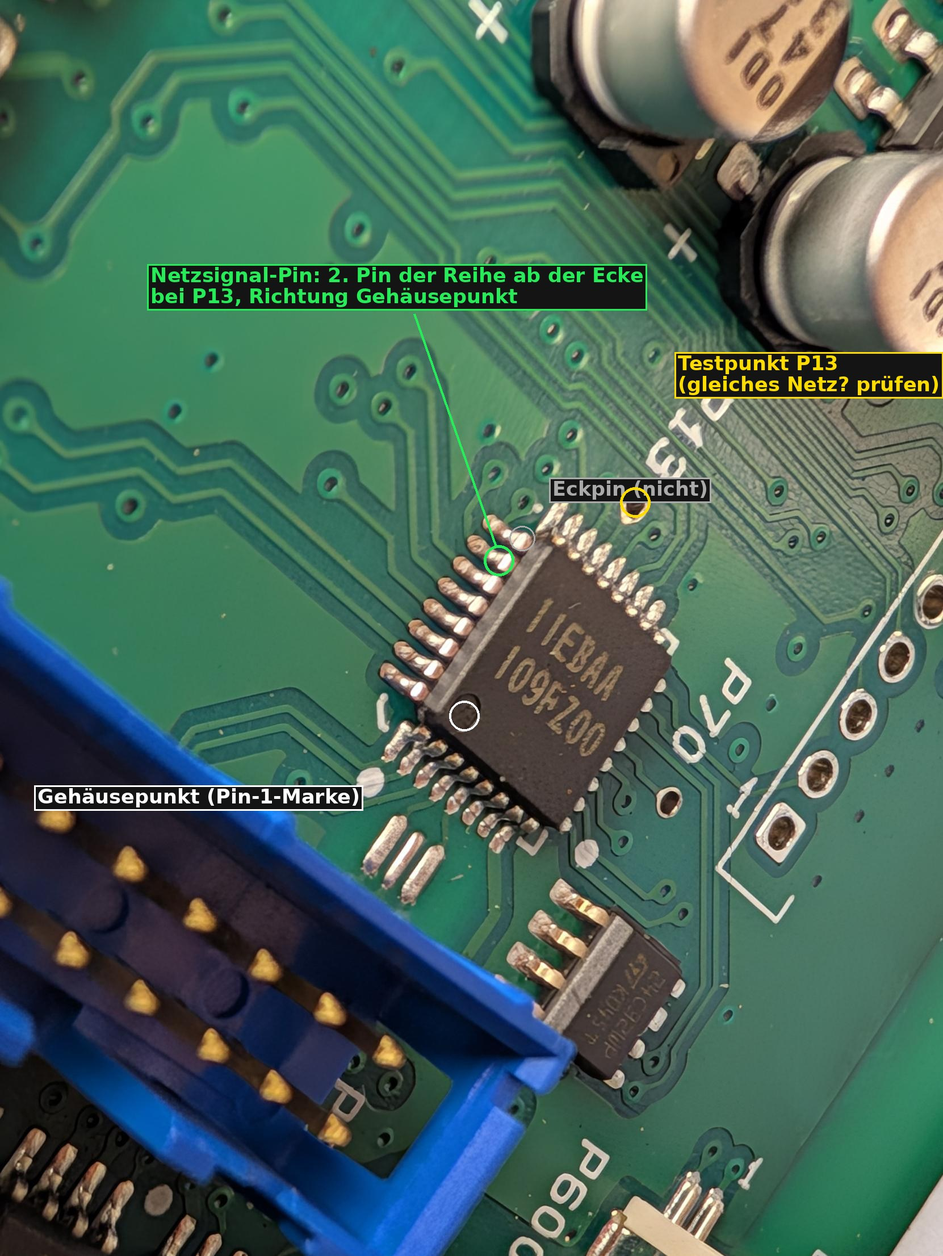
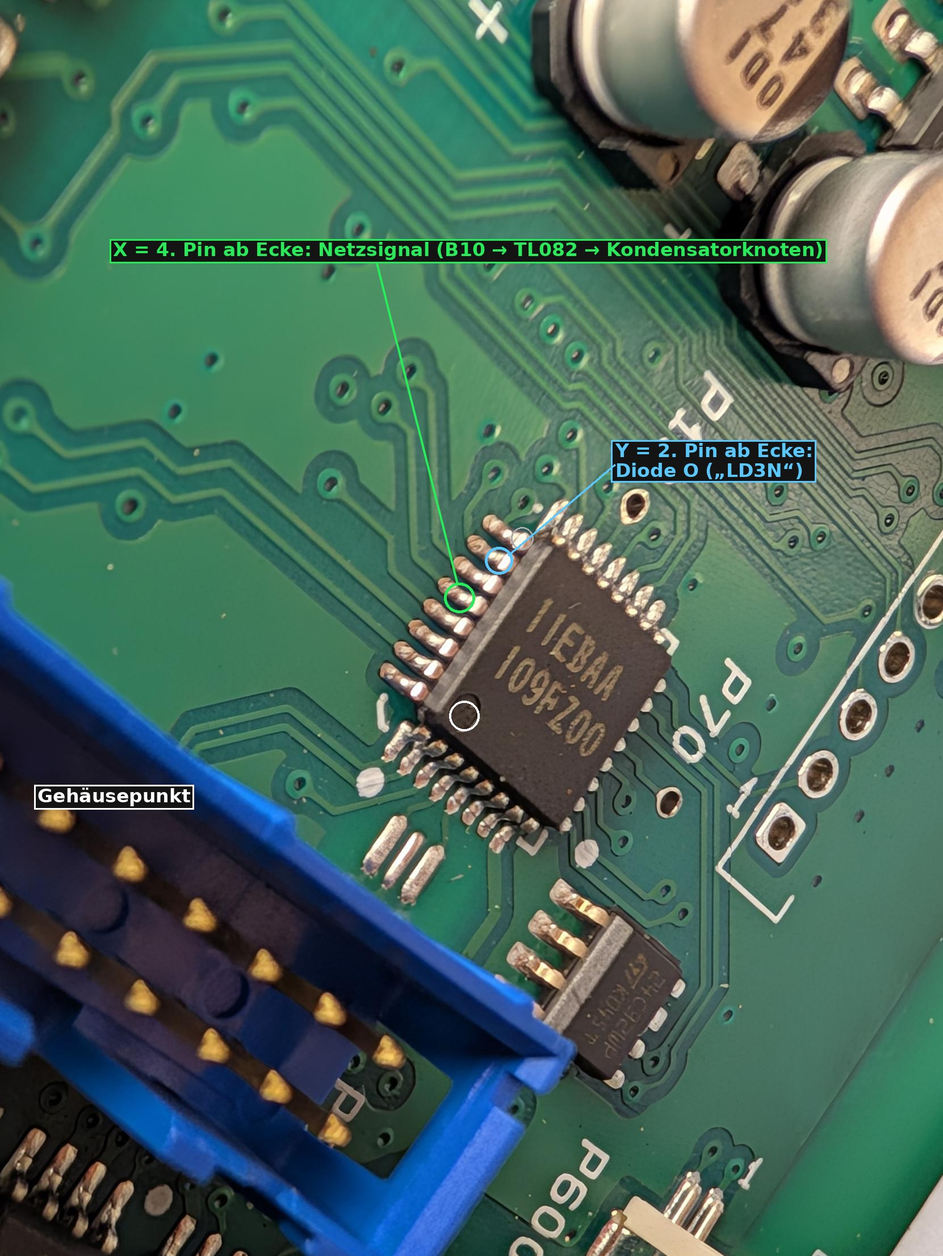
Klarstellung: Netzsignal = MCU-Pin 4 ab Ecke (X), O = Pin 2 (Y); Via oberhalb L = X
Claude-Session: https://claude.ai/code/session_01PCWMsMLh1QUFQHXCMiZTdR

diff --git a/docs/LAUF_2026-11-14.md b/docs/LAUF_2026-11-14.md
@@ -191,3 +191,5 @@ Nächste Messungen (geklemmt, gegen 0VA, Standby → Start): L4981 Pin 12 (SS), 
 - **01:19 Korrektur [M]:** Kondensatorpad (Nicht-0VA, Seite „1000“) führt direkt zu einem **eigenen MCU-Pin, zwei Pins neben** dem Pin von Diode O/Via. → Signalknoten und O sind **zwei verschiedene MCU-Eingänge**; die 6,4 kΩ dazwischen sind ein Parallelpfad (über MCU-Eingangsstrukturen/Versorgung). **Die Unterbrechungs-Hypothese (01:07/01:17) ist zurückgenommen. Keine Brücke löten** – sie würde zwei MCU-Eingänge kurzschließen.
 - Netzsignal-Pfad damit vollständig [M/I]: Netz → 2 × 475 kΩ → D1/D2 → J (22,1 kΩ → 0VA) → 1,0 kΩ → TL082 Pin 3 (Puffer, Pin 1 = Pin 2) → 4,75 kΩ → Via → 100 Ω → Knoten (C nach 0VA) → **MCU-Pin X**. Statisch ohne Befund. „LD3N“ (L = 0VA, R = +5VA, O) klemmt den benachbarten MCU-Eingang Y; dessen Signalquelle (über das Via oberhalb L) ist offen.
 - Nächster Schritt (Betrieb, Standby): Kondensatorpad (= MCU-Pin X) gegen 0VA, DC und Hz; zum Vergleich TL082 Pin 1 und J.
+- **01:24 Klarstellung Nutzer [M]:** Das Via **direkt oberhalb L (=0VA)** gehört zum **Signalknoten X**: Via ↔ Kondensatorpad (Nicht-0VA) **0 Ω**; über dieses Via geht X an den **4. MCU-Pin ab der Ecke** (gleiche Reihe wie zuvor). **O (Diode) = 2. MCU-Pin ab der Ecke** (= Y). X ↔ O = 6,5 kΩ (Parallelpfad). Der Eintrag 01:17 („Via ↔ Kondensatorpad 6,4–6,5 kΩ“) ist damit falsch zugeordnet; gemeint war Via ↔ O.
+- **Netzsignal-Eingang des MCU = 4. Pin ab der Ecke bei P13** (nicht der 2.). Live-Messpunkt: Via oberhalb L (= Kondensatorpad Signalseite) gegen Elko-Minus.
